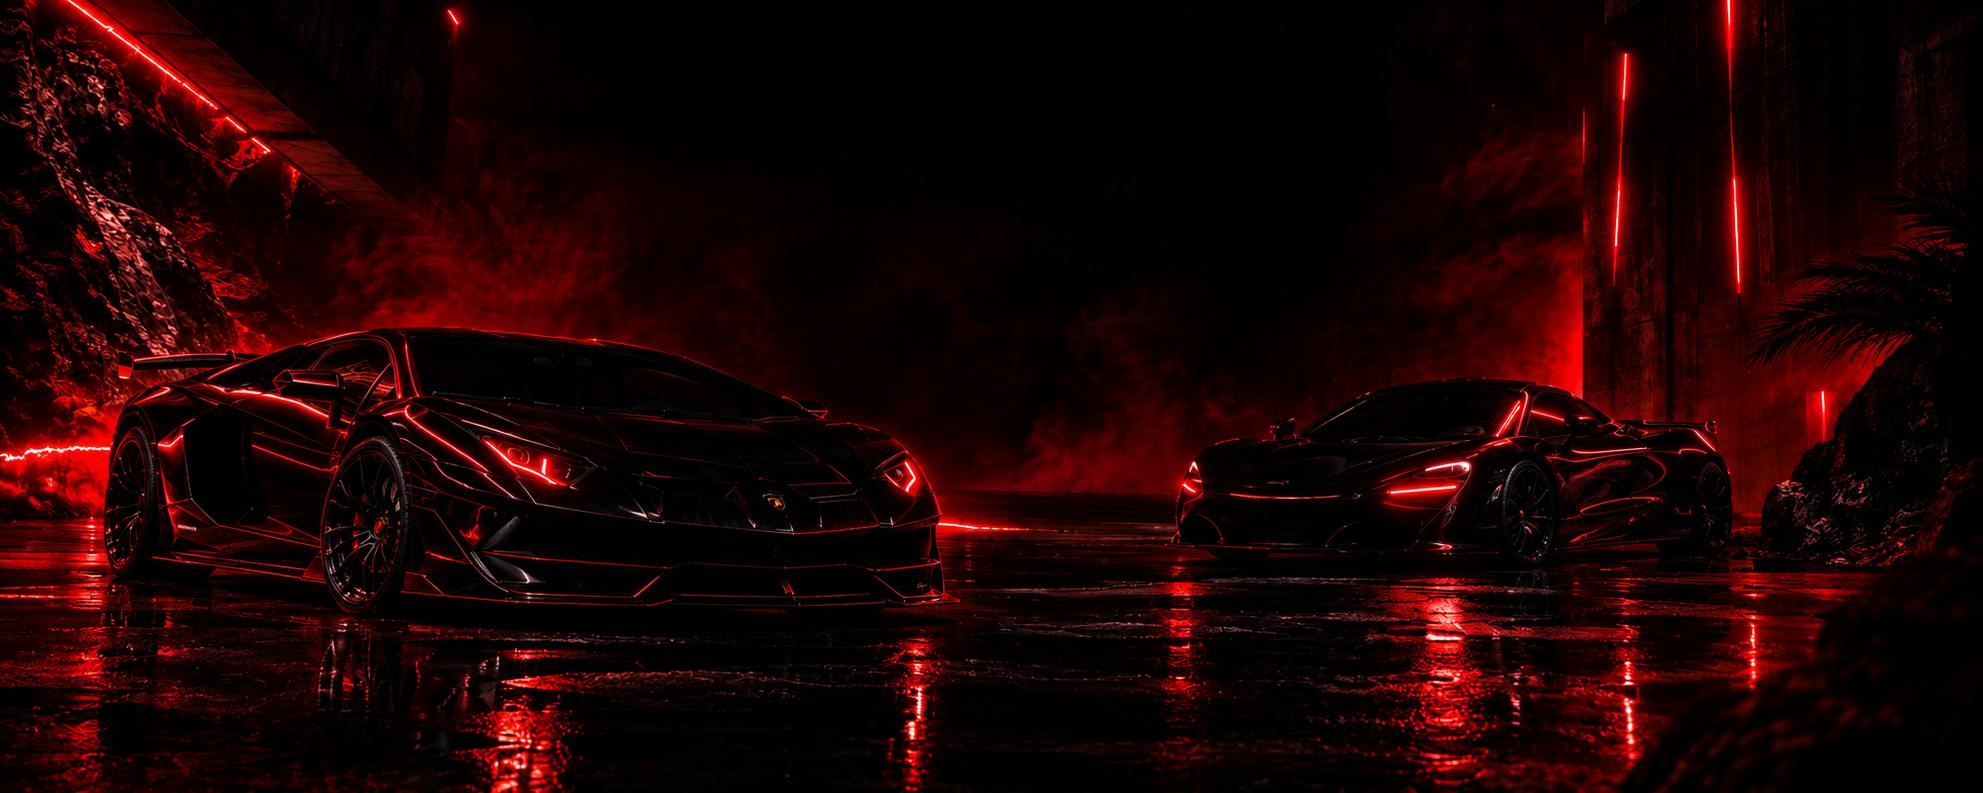
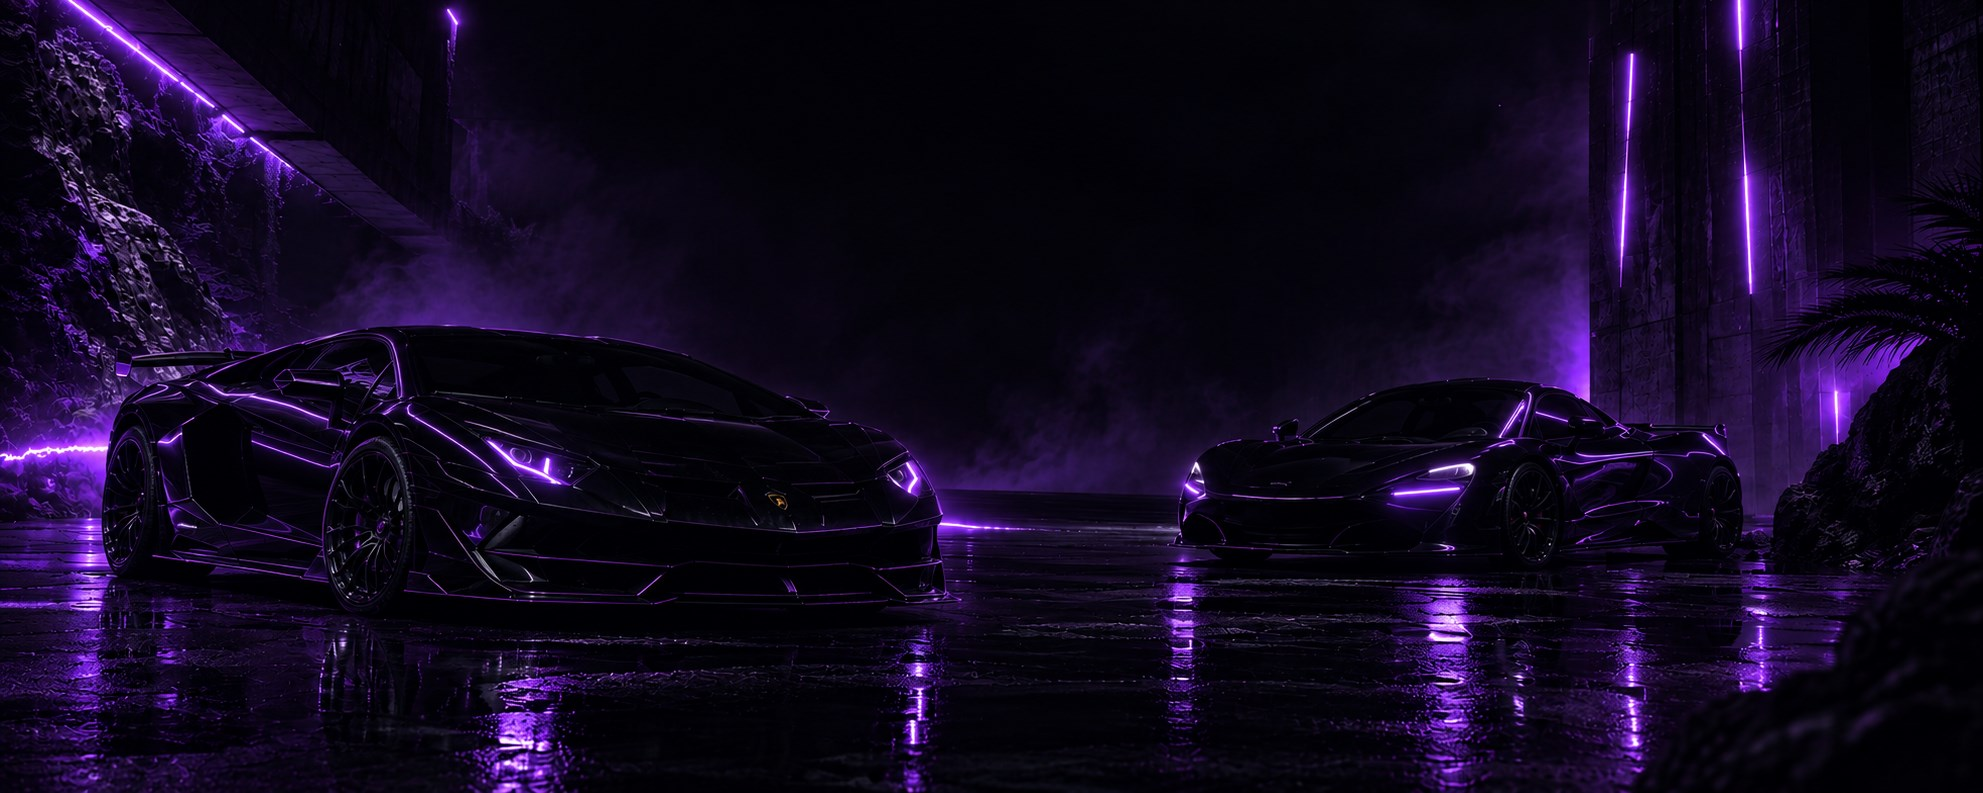
Switch background to purple neon supercars, retheme site to match

diff --git a/index.html b/index.html
@@ -4,19 +4,19 @@
 
   :root {
     color-scheme: dark;
-    --bg-plane:      #050203;
-    --bg:            #070304;
-    --surface-1:     rgba(22,10,11,0.70);
-    --surface-2:     rgba(32,14,15,0.80);
-    --surface-3:     rgba(44,18,19,0.88);
-    --border:        rgba(255,95,95,0.14);
-    --border-strong: rgba(255,120,120,0.28);
-    --text-primary:  #f6efec;
-    --text-secondary:#b7a29f;
-    --text-muted:    #7c6a68;
-    --brand-red:     #ff2438;
-    --brand-red-dim: rgba(255,36,56,0.15);
-    --brand-crimson: #5c0d14;
+    --bg-plane:      #05030a;
+    --bg:            #07040f;
+    --surface-1:     rgba(20,12,32,0.70);
+    --surface-2:     rgba(28,16,44,0.80);
+    --surface-3:     rgba(38,20,58,0.88);
+    --border:        rgba(180,120,255,0.14);
+    --border-strong: rgba(190,135,255,0.28);
+    --text-primary:  #f3eefc;
+    --text-secondary:#b6a8c9;
+    --text-muted:    #7c6f8f;
+    --brand-red:     #a855f7;
+    --brand-red-dim: rgba(168,85,247,0.15);
+    --brand-crimson: #3b0764;
     --good:          #26e37f;
     --good-dim:      rgba(38,227,127,0.14);
     --amber:         #ffab2e;
@@ -50,7 +50,7 @@
   .bg-tint {
     position: fixed; inset: 0; z-index: -1; pointer-events: none;
     background-image:
-      radial-gradient(ellipse 90% 50% at 50% -8%, rgba(255,36,56,0.22), transparent 62%),
+      radial-gradient(ellipse 90% 50% at 50% -8%, rgba(168,85,247,0.22), transparent 62%),
       linear-gradient(180deg, rgba(5,2,3,0.5) 0%, rgba(5,2,3,0.68) 55%, rgba(5,2,3,0.90) 100%);
   }
 
@@ -68,7 +68,7 @@
   .brand-mark {
     width: 32px; height: 32px; border-radius: 9px; flex: none;
     background: conic-gradient(from 220deg, var(--brand-crimson), var(--brand-red), var(--amber), var(--brand-crimson));
-    box-shadow: 0 0 14px rgba(255,36,56,0.45);
+    box-shadow: 0 0 14px rgba(168,85,247,0.45);
     display: flex; align-items: center; justify-content: center;
     font-family: var(--font-mono); font-weight: 600; font-size: 12px; color: #0a0303;
   }
@@ -147,7 +147,7 @@
   .demo-banner {
     display: flex; align-items: center; gap: 10px; justify-content: space-between; padding: 9px 14px;
     border-radius: 10px; margin-bottom: 14px; background: var(--brand-red-dim);
-    border: 1px solid rgba(255,36,56,0.32); font-size: 12px; color: var(--text-secondary);
+    border: 1px solid rgba(168,85,247,0.32); font-size: 12px; color: var(--text-secondary);
   }
   .demo-banner strong { color: var(--text-primary); }
   .demo-banner button {
@@ -231,7 +231,7 @@
   }
   .chip:hover { color: var(--text-primary); }
   .chip:focus-visible { outline: 2px solid var(--brand-red); outline-offset: 1px; }
-  .chip.is-active { background: var(--brand-red-dim); border-color: rgba(255,36,56,0.45); color: var(--text-primary); }
+  .chip.is-active { background: var(--brand-red-dim); border-color: rgba(168,85,247,0.45); color: var(--text-primary); }
   .chip .n { font-family: var(--font-mono); font-size: 10.5px; color: var(--text-muted); }
   .chip.is-active .n { color: var(--brand-red); }
 
@@ -289,14 +289,14 @@
   .strat-card-live {
     display: inline-flex; align-items: center; gap: 6px; padding: 3px 10px; border-radius: 999px; width: fit-content;
     font-family: var(--font-mono); font-size: 10.5px; font-weight: 600; color: var(--brand-red);
-    background: var(--brand-red-dim); border: 1px solid rgba(255,36,56,0.35);
+    background: var(--brand-red-dim); border: 1px solid rgba(168,85,247,0.35);
   }
   .strat-card-live .dot { width: 6px; height: 6px; border-radius: 50%; background: var(--brand-red); flex: none; animation: pulse 1.3s ease-in-out infinite; }
   .new-badge {
     position: absolute; top: -9px; right: -9px; min-width: 21px; height: 21px; padding: 0 5px; border-radius: 999px;
     background: var(--brand-red); color: #fff; font-family: var(--font-mono); font-size: 10.5px; font-weight: 700;
     display: flex; align-items: center; justify-content: center; border: 2px solid var(--bg-plane);
-    box-shadow: 0 0 10px rgba(255,36,56,0.55);
+    box-shadow: 0 0 10px rgba(168,85,247,0.55);
   }
   .strat-card:hover { border-color: var(--border-strong); transform: translateY(-2px); box-shadow: 0 10px 26px rgba(0,0,0,0.35); }
   .strat-card:focus-visible { outline: 2px solid var(--brand-red); outline-offset: 2px; }
@@ -422,7 +422,7 @@
   }
   .toolbar-btn:hover { color: var(--text-primary); }
   .toolbar-btn:focus-visible { outline: 2px solid var(--brand-red); outline-offset: 1px; }
-  .toolbar-btn.primary { background: var(--brand-red-dim); border-color: rgba(255,36,56,0.4); color: var(--text-primary); }
+  .toolbar-btn.primary { background: var(--brand-red-dim); border-color: rgba(168,85,247,0.4); color: var(--text-primary); }
   .toolbar-btn.go { background: var(--good-dim); border-color: rgba(38,227,127,0.35); color: var(--good); }
   .toolbar-btn.stop { background: var(--amber-dim); border-color: rgba(255,171,46,0.35); color: var(--amber); }
 
@@ -569,7 +569,7 @@
     position: fixed; inset: 0; z-index: 80;
     display: flex; align-items: center; justify-content: center; text-align: center;
     padding: 24px; background:
-      radial-gradient(ellipse 80% 55% at 50% 38%, rgba(255,36,56,0.20), transparent 65%),
+      radial-gradient(ellipse 80% 55% at 50% 38%, rgba(168,85,247,0.20), transparent 65%),
       rgba(5,2,3,0.62);
     -webkit-backdrop-filter: blur(3px); backdrop-filter: blur(3px);
     transition: opacity 0.7s ease, filter 0.7s ease, transform 0.7s ease;
@@ -581,14 +581,14 @@
   .welcome-mark {
     width: 60px; height: 60px; border-radius: 16px; flex: none;
     background: conic-gradient(from 220deg, var(--brand-crimson), var(--brand-red), var(--amber), var(--brand-crimson));
-    box-shadow: 0 0 26px rgba(255,36,56,0.5);
+    box-shadow: 0 0 26px rgba(168,85,247,0.5);
     display: flex; align-items: center; justify-content: center;
     font-family: var(--font-mono); font-weight: 700; font-size: 18px; color: #0a0303;
   }
   .welcome-title {
     margin: 0; font-family: var(--font-display); font-weight: 800; letter-spacing: 0.3px;
     font-size: clamp(30px, 7vw, 52px); color: var(--text-primary);
-    text-shadow: 0 0 30px rgba(255,36,56,0.35);
+    text-shadow: 0 0 30px rgba(168,85,247,0.35);
   }
   .welcome-sub {
     margin: 0; font-family: var(--font-mono); font-size: 13px; letter-spacing: 0.4px;
@@ -691,7 +691,7 @@
               <stop offset="100%" stop-color="#26e37f" stop-opacity="0"/>
             </linearGradient>
             <linearGradient id="lineStroke" x1="0" y1="0" x2="1" y2="0">
-              <stop offset="0%" stop-color="#ff2438"/>
+              <stop offset="0%" stop-color="#a855f7"/>
               <stop offset="100%" stop-color="#26e37f"/>
             </linearGradient>
           </defs>
@@ -816,7 +816,7 @@
                   <stop offset="0%" stop-color="#26e37f" stop-opacity="0.30"/><stop offset="100%" stop-color="#26e37f" stop-opacity="0"/>
                 </linearGradient>
                 <linearGradient id="lineStroke-leg1" x1="0" y1="0" x2="1" y2="0">
-                  <stop offset="0%" stop-color="#ff2438"/><stop offset="100%" stop-color="#26e37f"/>
+                  <stop offset="0%" stop-color="#a855f7"/><stop offset="100%" stop-color="#26e37f"/>
                 </linearGradient>
               </defs>
               <g id="gridLines-leg1"></g><g id="yLabels-leg1"></g>
@@ -897,7 +897,7 @@
                   <stop offset="0%" stop-color="#26e37f" stop-opacity="0.30"/><stop offset="100%" stop-color="#26e37f" stop-opacity="0"/>
                 </linearGradient>
                 <linearGradient id="lineStroke-leg2" x1="0" y1="0" x2="1" y2="0">
-                  <stop offset="0%" stop-color="#ff2438"/><stop offset="100%" stop-color="#26e37f"/>
+                  <stop offset="0%" stop-color="#a855f7"/><stop offset="100%" stop-color="#26e37f"/>
                 </linearGradient>
               </defs>
               <g id="gridLines-leg2"></g><g id="yLabels-leg2"></g>
@@ -978,7 +978,7 @@
                   <stop offset="0%" stop-color="#26e37f" stop-opacity="0.30"/><stop offset="100%" stop-color="#26e37f" stop-opacity="0"/>
                 </linearGradient>
                 <linearGradient id="lineStroke-legacy" x1="0" y1="0" x2="1" y2="0">
-                  <stop offset="0%" stop-color="#ff2438"/><stop offset="100%" stop-color="#26e37f"/>
+                  <stop offset="0%" stop-color="#a855f7"/><stop offset="100%" stop-color="#26e37f"/>
                 </linearGradient>
               </defs>
               <g id="gridLines-legacy"></g><g id="yLabels-legacy"></g>
@@ -1420,12 +1420,12 @@
       var gl = document.createElementNS('http://www.w3.org/2000/svg', 'line');
       gl.setAttribute('x1', padL); gl.setAttribute('x2', W - padR);
       gl.setAttribute('y1', y); gl.setAttribute('y2', y);
-      gl.setAttribute('stroke', 'rgba(255,120,120,0.10)'); gl.setAttribute('stroke-width', '1');
+      gl.setAttribute('stroke', 'rgba(190,135,255,0.10)'); gl.setAttribute('stroke-width', '1');
       grid.appendChild(gl);
       var lbl = document.createElementNS('http://www.w3.org/2000/svg', 'text');
       lbl.setAttribute('x', 4); lbl.setAttribute('y', y + 3);
       lbl.setAttribute('font-family', 'IBM Plex Mono, monospace');
-      lbl.setAttribute('font-size', '9.5'); lbl.setAttribute('fill', '#7c6a68');
+      lbl.setAttribute('font-size', '9.5'); lbl.setAttribute('fill', '#7c6f8f');
       lbl.textContent = v.toFixed(1);
       yLabels.appendChild(lbl);
     }
@@ -1437,7 +1437,7 @@
       var last = i === data.length - 1;
       c.setAttribute('r', last ? 5 : 3);
       c.setAttribute('fill', last ? '#26e37f' : '#0a0303');
-      c.setAttribute('stroke', last ? '#0a0303' : '#ff2438');
+      c.setAttribute('stroke', last ? '#0a0303' : '#a855f7');
       c.setAttribute('stroke-width', last ? 2 : 1.6);
       dotsG.appendChild(c);
     });

diff --git a/NOTES.md b/NOTES.md
@@ -7,7 +7,7 @@ aucun lien avec son dépôt git. Ce dossier ne contient que le site (design).
 
 - `index.html` — la page complète (HTML + CSS + JS, un seul fichier, aucune dépendance
   sauf les polices Google Fonts (Sora, IBM Plex Mono) et l'image de fond).
-- `bg.jpg` — l'image de fond (supercars néon rouge/noir), référencée en relatif par `index.html`.
+- `bg.jpg` — l'image de fond (supercars néon violet/noir), référencée en relatif par `index.html`.
 - `api/import.js` — fonction serverless Vercel : `POST /api/import`, appelée par
   l'outil de backtest d'un ami pour pousser une stratégie sur ce site (voir section
   "Connecter le backtest d'un ami" plus bas). Zéro dépendance (pas de `package.json`),
@@ -45,9 +45,11 @@ design n'est pas figé — pas de branchement sur le vrai bot pour l'instant, vo
 ### Identité / thème
 - Nom du site : **POK Industries** (pensé comme la plateforme qui pourra héberger
   plusieurs bots/stratégies plus tard, pas seulement Bundle10k).
-- Palette noir/rouge néon reprise de l'image de fond (voitures + néons rouges),
-  avec du vert néon réservé uniquement au sens "gain/positif" et de l'ambre pour
-  "en cours/attention" — pour ne pas tout confondre dans le rouge.
+- Palette noir/violet néon reprise de l'image de fond (voitures + néons violets,
+  changée le 2026-09-17), avec du vert néon réservé uniquement au sens
+  "gain/positif" et du rouge uniquement pour "perte/critique" (SL), et de
+  l'ambre pour "en cours/attention" — pour ne pas tout confondre dans la
+  couleur de marque.
 - Cartes en verre dépoli (glassmorphism) par-dessus l'image de fond fixe.
 - Police d'affichage : Sora. Police pour les chiffres/adresses : IBM Plex Mono.
 
